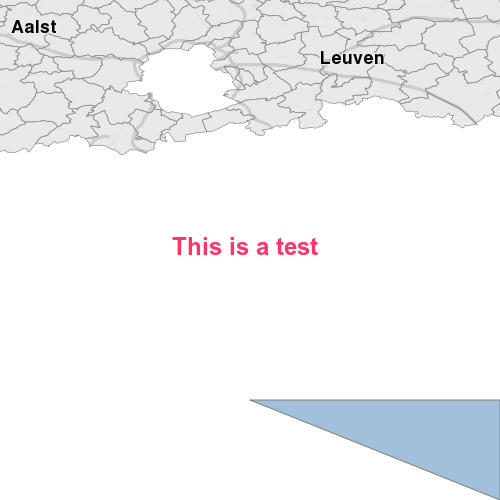
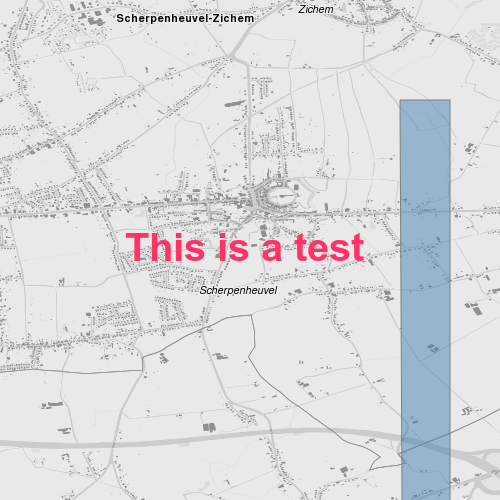
simple example

diff --git a/examples/map_simple.py b/examples/map_simple.py
@@ -7,14 +7,14 @@ config_simple = {
         'filetype': 'png',
         'width': 500,
         'height': 500,
-        'bbox': [4, 50, 5, 51]
+        'bbox': [4.95, 50.95, 5, 51]
     },
     'layers':
         [{'layer': {
             'type': 'text',
             'name': 'text.png',
             'text': 'This is a test',
-            'font_size': 24,
+            'font_size': 40,
             'text_color': '#FF3366'
         }
 
@@ -22,7 +22,7 @@ config_simple = {
             {'layer': {
                 'type': 'wkt',
                 'name': 'WKT',
-                'wkt': 'POLYGON ((4.5 50.2, 5 50.2, 5 50, 4.5 50.2))',
+                'wkt': 'POLYGON ((4.99 50.99, 4.995 50.99, 4.995 50, 4.99 50.99))',
                 'color': 'steelblue',
                 'opacity': 0.5
             }

diff --git a/static_map_generator/utils.py b/static_map_generator/utils.py
@@ -2,6 +2,13 @@ from shapely.wkt import loads
 from wand.exceptions import WandException
 from wand.image import Image
 
+def draw_line():
+    from PIL import Image as PILImage, ImageDraw as PILImageDraw
+    im = PILImage.new('RGBA', (400, 400), (0, 255, 0, 0))
+    draw = PILImageDraw.Draw(im)
+    draw.line((100, 200, 150, 300), fill=128, width=3)
+    im.save("result.png")
+
 def combine_layers(images, filename):
     combo = None
     for index, im in enumerate(images):
@@ -36,6 +43,8 @@ def combine_layers(images, filename):
 # def create_buffer(wkt, buffer):
 #     geom = loads(wkt)
 #     return geom.buffer(buffer)
+
+
 
 
 def merge_dicts(*dict_args):
